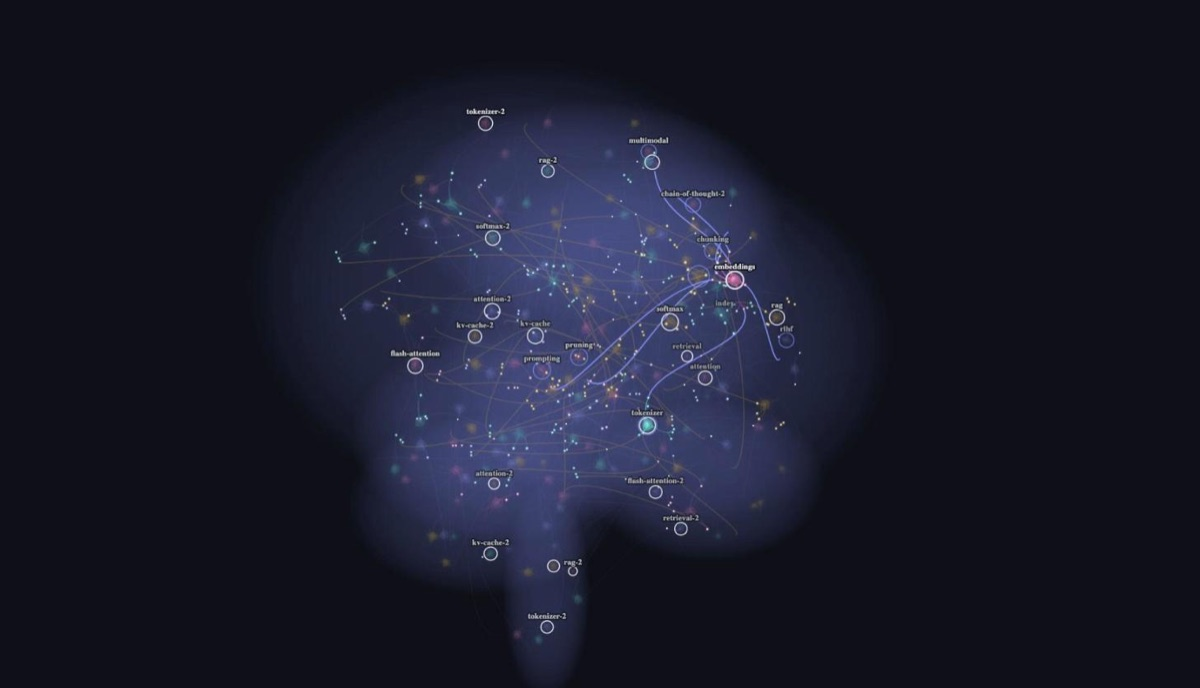
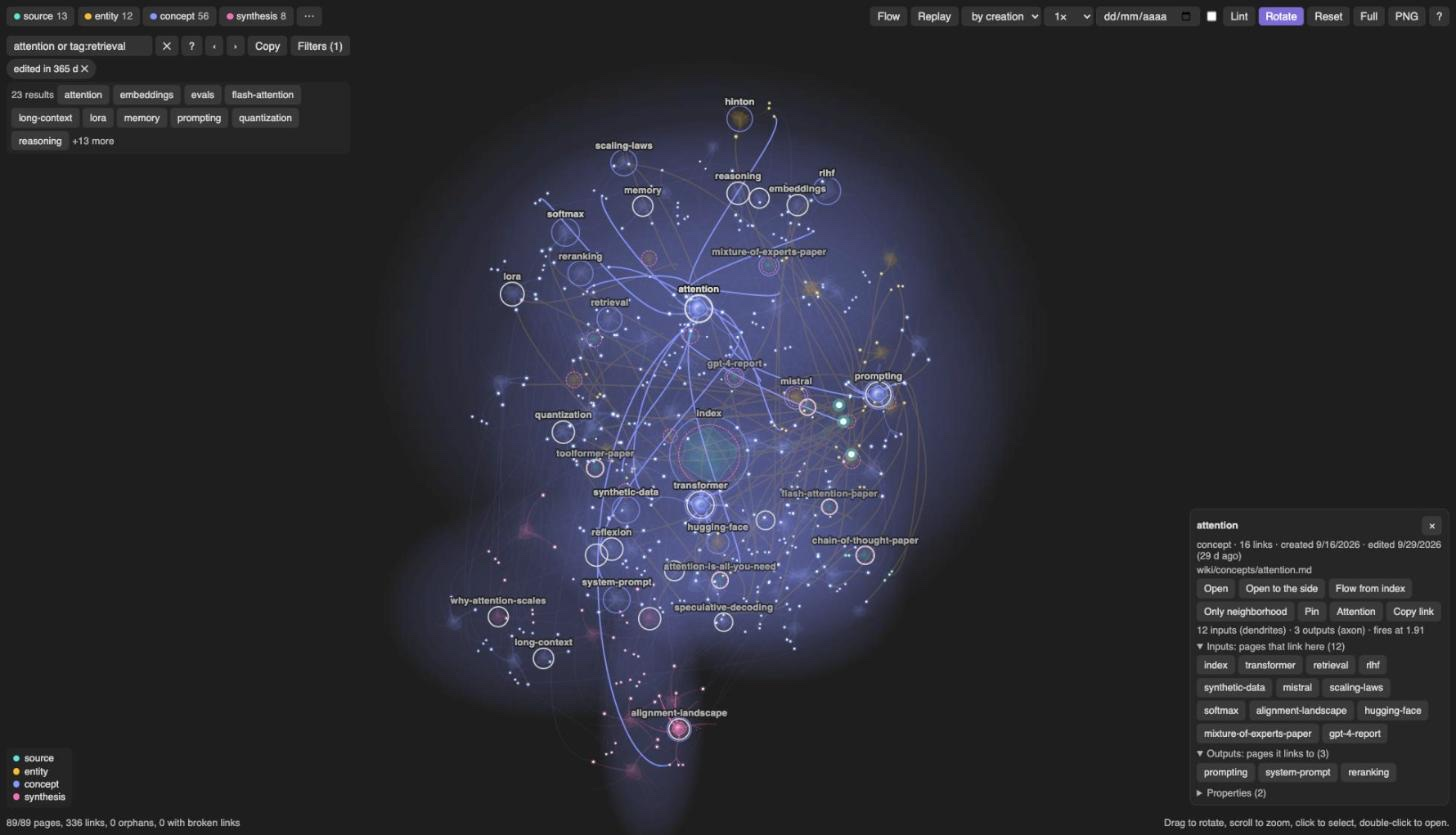
README image from the real view; fix overlap of search, filter chips, results and panel; legend and replay bar placement; UI harness (#4)
The 0.6.0 filter chips and the result list sat in the normal flow while the toolbar and search are overlays, so they overlapped.
Now search, chips, results and the filters panel share one column. The legend moves to the bottom left and the replay bar to the bottom centre.
scripts/harness/ui.html runs the real BrainView, engine and styles on a demo vault with a small obsidian shim.

Claude-Session: https://claude.ai/code/session_01AK5uJvDrdDy5XwpgmPVSQ3

diff --git a/scripts/harness/ui.ts b/scripts/harness/ui.ts
@@ -1,0 +1,91 @@
+// The real BrainView, the real engine and the real styles.css, running on a synthetic demo vault in a browser page.
+// Used to make the README image. The Obsidian module is replaced by obsidian-shim.ts (DOM helpers and a few classes).
+import { installDomHelpers } from "./obsidian-shim";
+installDomHelpers();
+import { BrainView } from "../../src/view";
+import { DEFAULT_SETTINGS } from "../../src/vaultGraph";
+import { translate, StringKey } from "../../src/i18n";
+
+const DAY = 86400000, NOW = Date.now();
+const SOURCES = ["attention-is-all-you-need", "scaling-laws-paper", "rlhf-paper", "flash-attention-paper", "lora-paper", "rag-paper", "react-paper", "mixture-of-experts-paper", "chain-of-thought-paper", "toolformer-paper", "retrieval-survey", "gpt-4-report"];
+const ENTITIES = ["openai", "anthropic", "deepmind", "meta-ai", "mistral", "hugging-face", "nvidia", "stanford-nlp", "vaswani", "hinton", "sutskever", "karpathy"];
+const CONCEPTS = ["attention", "kv-cache", "transformer", "tokenizer", "embeddings", "rlhf", "scaling-laws", "mixture-of-experts", "prompting", "fine-tuning", "rag", "agents", "tool-use", "context-window", "softmax", "backprop", "gradient-descent", "lora", "quantization", "evals", "hallucination", "alignment", "reasoning", "chain-of-thought", "retrieval", "vector-search", "chunking", "reranking", "memory", "planning", "mcp", "function-calling", "sampling", "temperature", "beam-search", "speculative-decoding", "flash-attention", "rope", "layernorm", "residual", "pretraining", "datasets", "synthetic-data", "distillation", "pruning", "inference", "batching", "latency", "throughput", "long-context", "structured-output", "system-prompt", "few-shot", "self-consistency", "tree-of-thought", "reflexion"];
+const SYNTH = ["how-llms-remember", "why-attention-scales", "rag-vs-long-context", "agents-in-practice", "eval-strategy", "inference-cost-map", "alignment-landscape", "prompt-patterns"];
+const TAGS = ["#ai", "#inference", "#training", "#retrieval", "#agents", "#evals"];
+
+function rng(seed: number) {
+	return () => ((seed = (seed * 1664525 + 1013904223) >>> 0) / 4294967296);
+}
+const r = rng(11);
+
+interface Note { path: string; basename: string; folder: string; type: string; ctime: number; mtime: number; links: string[]; tags: string[]; headings: string[]; props: Record<string, unknown> }
+const notes: Note[] = [];
+const add = (names: string[], folder: string, type: string) => names.forEach((n) => notes.push({ path: `wiki/${folder}/${n}.md`, basename: n, folder: `wiki/${folder}`, type, ctime: NOW - Math.floor(r() * 140) * DAY, mtime: 0, links: [], tags: [], headings: ["Summary", "Notes"], props: { type } }));
+add(SOURCES, "sources", "source");
+add(ENTITIES, "entities", "entity");
+add(CONCEPTS, "concepts", "concept");
+add(SYNTH, "syntheses", "synthesis");
+const index: Note = { path: "wiki/index.md", basename: "index", folder: "wiki", type: "", ctime: NOW - 150 * DAY, mtime: NOW - 1 * DAY, links: [], tags: [], headings: ["Index"], props: {} };
+notes.unshift(index);
+for (const n of notes) {
+	n.mtime = n.ctime + Math.floor(r() * Math.max(1, (NOW - n.ctime) / DAY)) * DAY;
+	n.tags = [TAGS[Math.floor(r() * TAGS.length)]];
+}
+for (const n of notes.slice(0, 18)) n.mtime = NOW - Math.floor(r() * 20) * 3600000; // a few edited today
+// every page is linked from the index or from an older page; hubs collect more links
+const concepts = notes.filter((n) => n.type === "concept");
+for (const n of notes.slice(1)) {
+	index.links.push(n.path);
+	const k = n.type === "synthesis" ? 5 : n.type === "source" ? 2 : 3;
+	for (let i = 0; i < k; i++) {
+		const t = r() < 0.55 ? concepts[Math.floor(Math.pow(r(), 1.7) * concepts.length)] : notes[1 + Math.floor(r() * (notes.length - 1))];
+		if (t && t !== n && !n.links.includes(t.path)) n.links.push(t.path);
+	}
+}
+for (const n of notes) n.props = n.type ? { type: n.type, status: r() < 0.3 ? "draft" : "stable" } : {};
+
+const files = notes.map((n) => ({ path: n.path, basename: n.basename, stat: { ctime: n.ctime, mtime: n.mtime }, parent: { path: n.folder } }));
+const byPath = new Map(files.map((f) => [f.path, f]));
+const cache = (f: { path: string }) => {
+	const n = notes.find((x) => x.path === f.path) as Note;
+	return { tags: n.tags.map((t) => ({ tag: t })), headings: n.headings.map((h) => ({ heading: h })), frontmatter: n.props, frontmatterLinks: [] };
+};
+const app = {
+	vault: { getMarkdownFiles: () => files, getAbstractFileByPath: (p: string) => byPath.get(p) ?? null, create: async () => {}, createBinary: async () => {} },
+	metadataCache: {
+		resolvedLinks: Object.fromEntries(notes.map((n) => [n.path, Object.fromEntries(n.links.map((l) => [l, 1]))])),
+		unresolvedLinks: {},
+		getFileCache: cache,
+		getFirstLinkpathDest: () => null,
+	},
+	workspace: { on: () => ({}), trigger: () => {}, getLeaf: () => ({ openFile: async () => {} }) },
+};
+
+const log = notes
+	.slice(1)
+	.sort((a, b) => a.ctime - b.ctime)
+	.map((n) => `## [${new Date(n.ctime).toISOString().slice(0, 10)}] ingest | ${n.basename}`)
+	.join("\n");
+
+const settings = { ...DEFAULT_SETTINGS, onboarded: true, ambient: "calm" as const, recentRing: true, ghosts: true, neuronDetail: "high" as const };
+const plugin = {
+	settings,
+	lang: "en" as const,
+	layout: {} as Record<string, number[]>,
+	t: (k: StringKey, v?: Record<string, string | number>) => translate("en", k, v),
+	readLog: async () => log,
+	saveLayout: () => {},
+	persist: async () => {},
+	saveViews: async () => {},
+};
+
+const view = new BrainView({} as never, plugin as never);
+(view as unknown as { app: unknown }).app = app;
+const pane = document.getElementById("pane") as HTMLElement;
+pane.appendChild(view.contentEl);
+view.contentEl.style.cssText = "flex:1;display:flex;flex-direction:column;min-height:0;padding:0";
+void view.onOpen().then(() => {
+	(window as unknown as Record<string, unknown>).view = view;
+	(window as unknown as Record<string, unknown>).engine = view.engine;
+	console.log("ui-ready", notes.length);
+});

diff --git a/scripts/harness/obsidian-shim.ts b/scripts/harness/obsidian-shim.ts
@@ -1,0 +1,111 @@
+// A stand-in for the parts of the `obsidian` module that the view and the graph builder use, so the real BrainView,
+// the real engine and the real styles.css can run in a browser page (see ui.ts). It is not Obsidian: it only
+// provides the DOM helpers and classes the plugin calls.
+export class TFile {
+	path = "";
+	basename = "";
+	stat = { ctime: 0, mtime: 0 };
+	parent: { path: string } | null = null;
+}
+export class WorkspaceLeaf {}
+export class HoverPopover {}
+export class Notice {
+	constructor(public message: string) {
+		(window as unknown as { notices?: string[] }).notices?.push(message);
+	}
+}
+export class Menu {
+	addItem(fn: (i: { setTitle: (t: string) => unknown; setIcon: (i: string) => unknown; onClick: (f: () => void) => unknown }) => void): this {
+		const item = { setTitle: () => item, setIcon: () => item, onClick: () => item };
+		fn(item);
+		return this;
+	}
+	addSeparator(): this {
+		return this;
+	}
+	showAtMouseEvent(): void {}
+}
+export class ItemView {
+	contentEl: HTMLElement = document.createElement("div");
+	containerEl: HTMLElement = this.contentEl;
+	app: unknown;
+	constructor(public leaf: unknown) {}
+	getState(): Record<string, unknown> {
+		return {};
+	}
+	async setState(): Promise<void> {}
+	registerEvent(): void {}
+	registerInterval(id: number): number {
+		return id;
+	}
+}
+
+interface DomOpts {
+	cls?: string;
+	text?: string;
+	attr?: Record<string, string>;
+	type?: string;
+	value?: string;
+	title?: string;
+}
+
+function apply<T extends HTMLElement>(el: T, o?: DomOpts | string): T {
+	if (!o) return el;
+	if (typeof o === "string") {
+		el.className = o;
+		return el;
+	}
+	if (o.cls) el.className = o.cls;
+	if (o.text !== undefined) el.textContent = o.text;
+	if (o.attr) for (const [k, v] of Object.entries(o.attr)) el.setAttribute(k, v);
+	if (o.type !== undefined) (el as unknown as HTMLInputElement).type = o.type;
+	if (o.value !== undefined) (el as unknown as HTMLInputElement).value = o.value;
+	if (o.title) el.title = o.title;
+	return el;
+}
+
+/** Obsidian adds these helpers to every element; the plugin uses them throughout. */
+export function installDomHelpers(): void {
+	const P = HTMLElement.prototype as unknown as Record<string, unknown>;
+	P.createEl = function (this: HTMLElement, tag: string, o?: DomOpts) {
+		const el = document.createElement(tag);
+		apply(el, o);
+		this.appendChild(el);
+		return el;
+	};
+	P.createDiv = function (this: HTMLElement, o?: DomOpts) {
+		return (this as unknown as { createEl: (t: string, o?: DomOpts) => HTMLElement }).createEl("div", o);
+	};
+	P.createSpan = function (this: HTMLElement, o?: DomOpts) {
+		return (this as unknown as { createEl: (t: string, o?: DomOpts) => HTMLElement }).createEl("span", o);
+	};
+	P.empty = function (this: HTMLElement) {
+		this.textContent = "";
+	};
+	P.addClass = function (this: HTMLElement, c: string) {
+		this.classList.add(c);
+	};
+	P.removeClass = function (this: HTMLElement, c: string) {
+		this.classList.remove(c);
+	};
+	P.hasClass = function (this: HTMLElement, c: string) {
+		return this.classList.contains(c);
+	};
+	P.toggleClass = function (this: HTMLElement, c: string, on: boolean) {
+		this.classList.toggle(c, on);
+	};
+	P.setText = function (this: HTMLElement, t: string) {
+		this.textContent = t;
+	};
+	P.show = function (this: HTMLElement) {
+		this.style.display = "";
+		this.removeAttribute("data-hidden");
+	};
+	P.hide = function (this: HTMLElement) {
+		this.style.display = "none";
+		this.setAttribute("data-hidden", "1");
+	};
+	P.isShown = function (this: HTMLElement) {
+		return this.style.display !== "none";
+	};
+}

diff --git a/styles.css b/styles.css
@@ -71,23 +71,28 @@
 	background: var(--interactive-accent);
 	color: var(--text-on-accent);
 }
-.llm-wiki-brain-search {
+.llm-wiki-brain-stack {
 	position: absolute;
 	top: 44px;
 	left: var(--size-4-2);
 	z-index: 1;
 	display: flex;
+	flex-direction: column;
+	align-items: flex-start;
 	gap: var(--size-4-1);
 	width: min(420px, calc(100% - var(--size-4-4)));
+	max-height: calc(100% - 84px);
+	overflow-y: auto;
+}
+.llm-wiki-brain-search {
+	display: flex;
+	gap: var(--size-4-1);
+	width: 100%;
 }
 .llm-wiki-brain-search input[type="search"] {
 	flex: 1 1 auto;
 }
 .llm-wiki-brain-panel {
-	position: absolute;
-	top: 80px;
-	left: var(--size-4-2);
-	z-index: 1;
 	display: none;
 	flex-direction: column;
 	gap: var(--size-4-1);
@@ -181,10 +186,17 @@
 }
 
 .llm-wiki-brain-replaybar {
+	position: absolute;
+	left: 50%;
+	transform: translateX(-50%);
+	bottom: 36px;
+	z-index: 1;
 	display: flex;
 	align-items: center;
 	gap: 8px;
 	padding: 4px 8px;
+	background: var(--background-secondary);
+	border-radius: var(--radius-m);
 	font-size: var(--font-ui-smaller);
 	color: var(--text-muted);
 }
@@ -238,7 +250,6 @@
 	display: flex;
 	flex-wrap: wrap;
 	gap: 4px;
-	padding: 2px 8px;
 }
 .llm-wiki-brain-active.is-empty {
 	display: none;
@@ -254,9 +265,11 @@
 	flex-wrap: wrap;
 	align-items: center;
 	gap: 4px;
-	padding: 2px 8px;
-	max-height: 5.5em;
+	max-height: 7.6em;
 	overflow-y: auto;
+	padding: 4px 6px;
+	border-radius: var(--radius-m);
+	background: color-mix(in srgb, var(--background-secondary) 85%, transparent);
 	font-size: var(--font-ui-smaller);
 	color: var(--text-muted);
 }
@@ -267,8 +280,8 @@
 }
 .llm-wiki-brain-legend {
 	position: absolute;
-	right: 10px;
-	bottom: 10px;
+	left: var(--size-4-2);
+	bottom: 34px;
 	display: flex;
 	flex-direction: column;
 	gap: 2px;

diff --git a/scripts/harness/ui.html b/scripts/harness/ui.html
@@ -1,0 +1,39 @@
+<!doctype html>
+<html>
+<head>
+<meta charset="utf-8">
+<title>LLM Wiki Brain, real view in a harness</title>
+<link rel="stylesheet" href="../../styles.css?v=4">
+<style>
+/* Obsidian's default dark theme variables, the ones styles.css uses. */
+:root {
+  --background-primary: #1e1e1e;
+  --background-secondary: #262626;
+  --background-modifier-border: #363636;
+  --background-modifier-hover: rgba(255,255,255,0.075);
+  --text-normal: #dadada;
+  --text-muted: #b3b3b3;
+  --text-faint: #666666;
+  --text-on-accent: #fff;
+  --text-warning: #d4a72c;
+  --interactive-accent: #7b6cd9;
+  --font-ui-small: 13px;
+  --font-ui-smaller: 12px;
+  --font-monospace: ui-monospace, "SF Mono", Menlo, monospace;
+  --radius-m: 8px;
+  --shadow-s: 0 1px 6px rgba(0,0,0,0.4);
+  --size-4-1: 4px; --size-4-2: 8px; --size-4-4: 16px;
+}
+body { margin: 0; background: var(--background-primary); color: var(--text-normal); font: 13px -apple-system, "Segoe UI", sans-serif; }
+#pane { width: 100vw; height: 100vh; display: flex; flex-direction: column; }
+button, select, input { font: inherit; color: var(--text-normal); background: var(--background-modifier-hover); border: 1px solid var(--background-modifier-border); border-radius: 5px; padding: 2px 8px; }
+input[type="range"] { padding: 0; }
+input[type="checkbox"] { padding: 0; }
+button:disabled { opacity: 0.45; }
+</style>
+</head>
+<body>
+<div id="pane"></div>
+<script src="bundle-ui.js"></script>
+</body>
+</html>

diff --git a/src/view.ts b/src/view.ts
@@ -212,11 +212,13 @@ export class BrainView extends ItemView {
 		this.replayCaption = this.replayBar.createSpan({ cls: "llm-wiki-brain-replaycap", attr: { "aria-live": "polite" } });
 		this.replayBar.hide();
 
-		this.buildSearchRow(root);
-		this.chipsRow = root.createDiv({ cls: "llm-wiki-brain-active" });
-		this.results = root.createDiv({ cls: "llm-wiki-brain-results" });
+		// One column under the toolbar: search, active filter chips, results and the filters panel never overlap.
+		const stack = root.createDiv({ cls: "llm-wiki-brain-stack" });
+		this.buildSearchRow(stack);
+		this.chipsRow = stack.createDiv({ cls: "llm-wiki-brain-active" });
+		this.results = stack.createDiv({ cls: "llm-wiki-brain-results" });
 		this.results.hide();
-		this.buildPanel(root);
+		this.buildPanel(stack);
 
 		this.stage = root.createDiv({ cls: "llm-wiki-brain-stage" });
 		this.canvas = this.stage.createEl("canvas", { attr: { tabindex: "0", role: "img", "aria-label": this.t("canvas.aria") } });

diff --git a/README.md b/README.md
@@ -2,7 +2,9 @@
 
 See your wiki as a living 3D brain inside Obsidian. Each page is a neuron, each `[[wikilink]]` is a synapse, and pages with more links grow bigger. Built for [LLM wikis](https://github.com/jonyfs/llm-wiki-template) (`wiki/sources`, `wiki/entities`, `wiki/concepts`, `wiki/syntheses`, plus `wiki/index.md` and `wiki/log.md`), and it works on any vault.
 
-![The brain with a page selected, search matches ringed, a packet traveling from the index and pages edited today marked (demo vault with sample data)](docs/images/brain.jpg)
+![The plugin's own view on a demo vault: type chips and toolbar at the top, search with an active filter chip and a result list, a selected page with its inputs and outputs, a Flow packet in flight, the legend and the status line](docs/images/brain.jpg)
+
+*Rendered by the plugin's real view, engine and `styles.css` on a synthetic demo vault (generic LLM-wiki page names), in Obsidian's default dark theme. See `scripts/harness/ui.html`.*
 
 ## Contents
 
@@ -164,7 +166,7 @@ npm run build   # type-check and production build
 npm test        # pure modules: search, filters, physics, neuron model, i18n, ...
 ```
 
-`scripts/harness` runs the real engine in a browser on a synthetic vault (see its README). `docs/RELEASE-CHECKLIST.md` is the manual check to run in a real Obsidian before a release.
+`scripts/harness` runs the real engine in a browser on a synthetic vault (see its README); `ui.html` there runs the real view and styles with a small stand-in for the `obsidian` module, and is how the README image is made. `docs/RELEASE-CHECKLIST.md` is the manual check to run in a real Obsidian before a release.
 
 Release: bump `version` in `manifest.json`, `package.json` and `package-lock.json`, add it to `versions.json`, push the commit and the tag; the GitHub Action runs the build and attaches `main.js`, `manifest.json` and `styles.css`.
 

diff --git a/scripts/harness/README.md b/scripts/harness/README.md
@@ -16,3 +16,17 @@ Check by eye: nodes fill both hemispheres of the outline; each link starts and e
 Flow to the newest page draws a dashed arc; Replay grows the brain back from the index; no blank canvas after `selectPath(..., true)`.
 
 If the browser keeps an old `bundle.js`, change the file name in `index.html` (`bundle2.js`) or hard-reload.
+
+
+## The real view (`ui.html`)
+
+`ui.html` runs the real `BrainView`, engine and `styles.css` on a synthetic demo vault, with `obsidian-shim.ts` standing in for the `obsidian` module (DOM helpers and a few classes). It is how the README image is made, and it catches layout problems in the view that the engine-only harness cannot.
+
+```bash
+npx esbuild scripts/harness/ui.ts --bundle --outfile=scripts/harness/bundle-ui.js --alias:obsidian=./scripts/harness/obsidian-shim.ts
+python3 -m http.server 8783          # from the repository root
+# open http://localhost:8783/scripts/harness/ui.html
+```
+
+In the console: `view`, `engine`. Settle the layout with `for (let s=0,a=0.8;s<300;s++,a*=0.985) engine.simStep(a); engine.alpha=0`.
+It is not Obsidian: no Obsidian theme beyond the default dark variables, no workspace, no real vault events.
